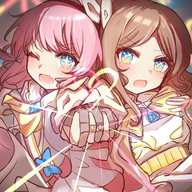
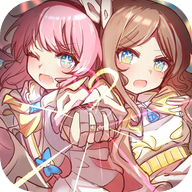
fix:圆角

diff --git a/vite.config.js b/vite.config.js
@@ -10,8 +10,7 @@ export default defineConfig(({ mode }) => ({
     vue(),
     VitePWA({
       registerType: 'autoUpdate',
-      // 只包含优化后的小图标，避免把大图标（icon.png ~3MB）加入 precache
-      includeAssets: ['icon-192.png', 'icon-512.png', 'manifest.json'],
+      includeAssets: ['icon-192.png', 'icon-512.png', 'icon.png', 'manifest.json'],
       manifest: false,
       workbox: {
         globPatterns: ['**/*.{js,css,html,ico,png,svg,json,vue,txt,woff2}'],

diff --git a/src/styles/apple-design-system.css b/src/styles/apple-design-system.css
@@ -259,6 +259,8 @@ img {
   max-width: 100%;
   height: auto;
   display: block;
+  border-radius: var(--global-border-radius-large, 16px);
+  /* 兼容性考虑，默认 16px 圆角 */
 }
 
 /* ===== 卡片样式 ===== */
